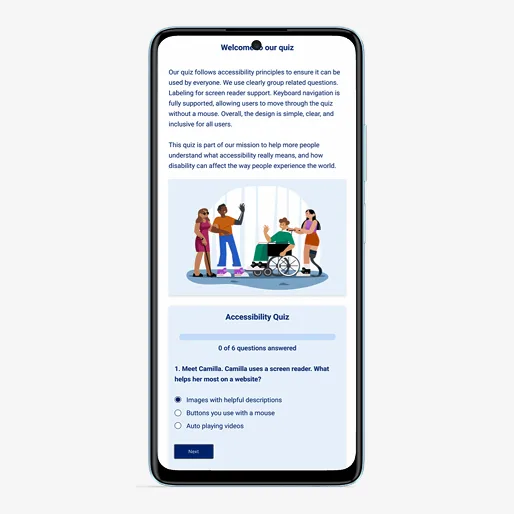
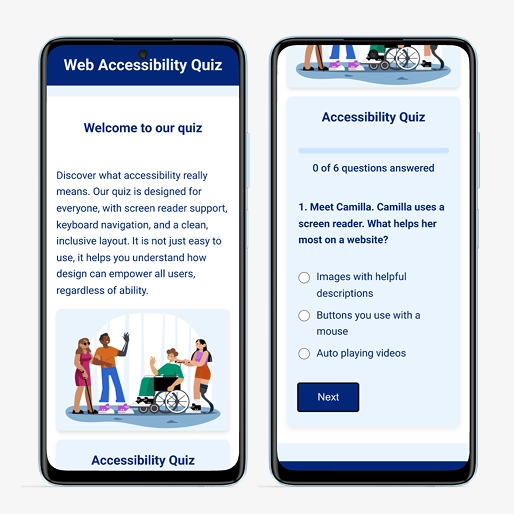
changes image in project section, changed button text in article section and changed methods in skills section

diff --git a/src/sections/ProjectSection.jsx b/src/sections/ProjectSection.jsx
@@ -27,7 +27,17 @@ const projects = [
         tags: ["JavaScript", "React", "Reakt Hooks", "API"],
         liveDemoLink: "https://tthiry-happythoughts.netlify.app",
         viewCodeLink: "https://github.com/T-Thiry/js-project-happy-thoughts",
-  },
+    },
+    {
+        img: AccessibilityQuizImg,
+        title: "Web Accessibility Quiz",
+        text: "The web accessibility quiz helps users test their knowledge of inclusive design principles in a quick and engaging way. It is designed to raise awareness of common accessibility issues while encouraging best practices in web development.",
+        buttonOneText: "View Demo",
+        buttonTwoText: "View Code",
+        tags: ["Javascript","Typescript", "CSS", "HTML", "Accessibility"],
+        liveDemoLink: "https://accessibility-guiz.netlify.app",
+        viewCodeLink: "https://github.com/T-Thiry/js-project-accessibility",
+    },
     {
         img: WeatherAppImg,
         title: "Weather App",
@@ -47,16 +57,6 @@ const projects = [
         tags: ["CSS", "HTML", "Responsive Design", ],
         liveDemoLink: "https://hookitup.netlify.app",
         viewCodeLink: "https://github.com/T-Thiry/js-project-business-site",
-    },
-    {
-        img: AccessibilityQuizImg,
-        title: "Web Accessibility Quiz",
-        text: "The web accessibility quiz helps users test their knowledge of inclusive design principles in a quick and engaging way. It is designed to raise awareness of common accessibility issues while encouraging best practices in web development.",
-        buttonOneText: "View Demo",
-        buttonTwoText: "View Code",
-        tags: ["Javascript","Typescript", "CSS", "HTML", "Accessibility"],
-        liveDemoLink: "https://accessibility-guiz.netlify.app",
-        viewCodeLink: "https://github.com/T-Thiry/js-project-accessibility",
     },
     {
         img: SustainabilityHousingImg,

diff --git a/src/sections/ArticleSection.jsx b/src/sections/ArticleSection.jsx
@@ -9,21 +9,21 @@ const articles = [
     img: StorytellingImg,
     title: "Turning Pages: Empowering Financial Literacy through storytelling",
     text: "This article explores how storytelling can simplify complex financial concepts, making them more relatable and engaging. By using narratives, users can better understand and apply financial knowledge in their daily lives.",
-    button: "Read Article",
+    button: "View LinkedIn Post",
     buttonLink: "https://example.com",
   },
   {
     img: CollaborationImg,
     title: "Building Bridges: Connecting Developers and Designers through collaboration",
     text: "This article examines how effective collaboration between developers and designers can lead to user-friendly web experiences with seamless communication and mutual understanding in creating cohesive digital products.",
-    button: "Read Article",
+    button: "Coming Soon",
     buttonLink: "https://example.com",
   },
   {
     img: PromtingImg,
     title: "Prompting Perfection: How AI Is Revolutionizing UX/UI Design",
     text: "This article delves into how crafting the right prompts can help designers generate design concepts, optimize user interfaces, and enhance content creation, ultimately streamlining workflows and delivering more personalized user experiences.",
-    button: "Read Article",
+    button: "Coming Soon",
     buttonLink: "https://example.com",
   },
 ];
@@ -31,7 +31,7 @@ const articles = [
 const ArticleSection = () => {
   return (
     <Section>
-      <SectionTitle>My Articles</SectionTitle>
+      <SectionTitle>My Words</SectionTitle>
         {articles.map((article, index) => (
           <ArticleCard key={index} {...article} />
         ))}

diff --git a/src/sections/SkillsSection.jsx b/src/sections/SkillsSection.jsx
@@ -15,7 +15,7 @@ const skillsData = [
   },
   {
     category: "Methods 🎨",
-    skills: ["Agile Methodology", "Mob Programming", "Pair Programming", "Testing", "User Research", "Design Thinking"]
+    skills: ["Agile Methodology", "Mob Programming", "Pair Programming", "", "Usability Testing", "Prototyping"]
   },
   {
     category: "Languages 🇸🇪",
